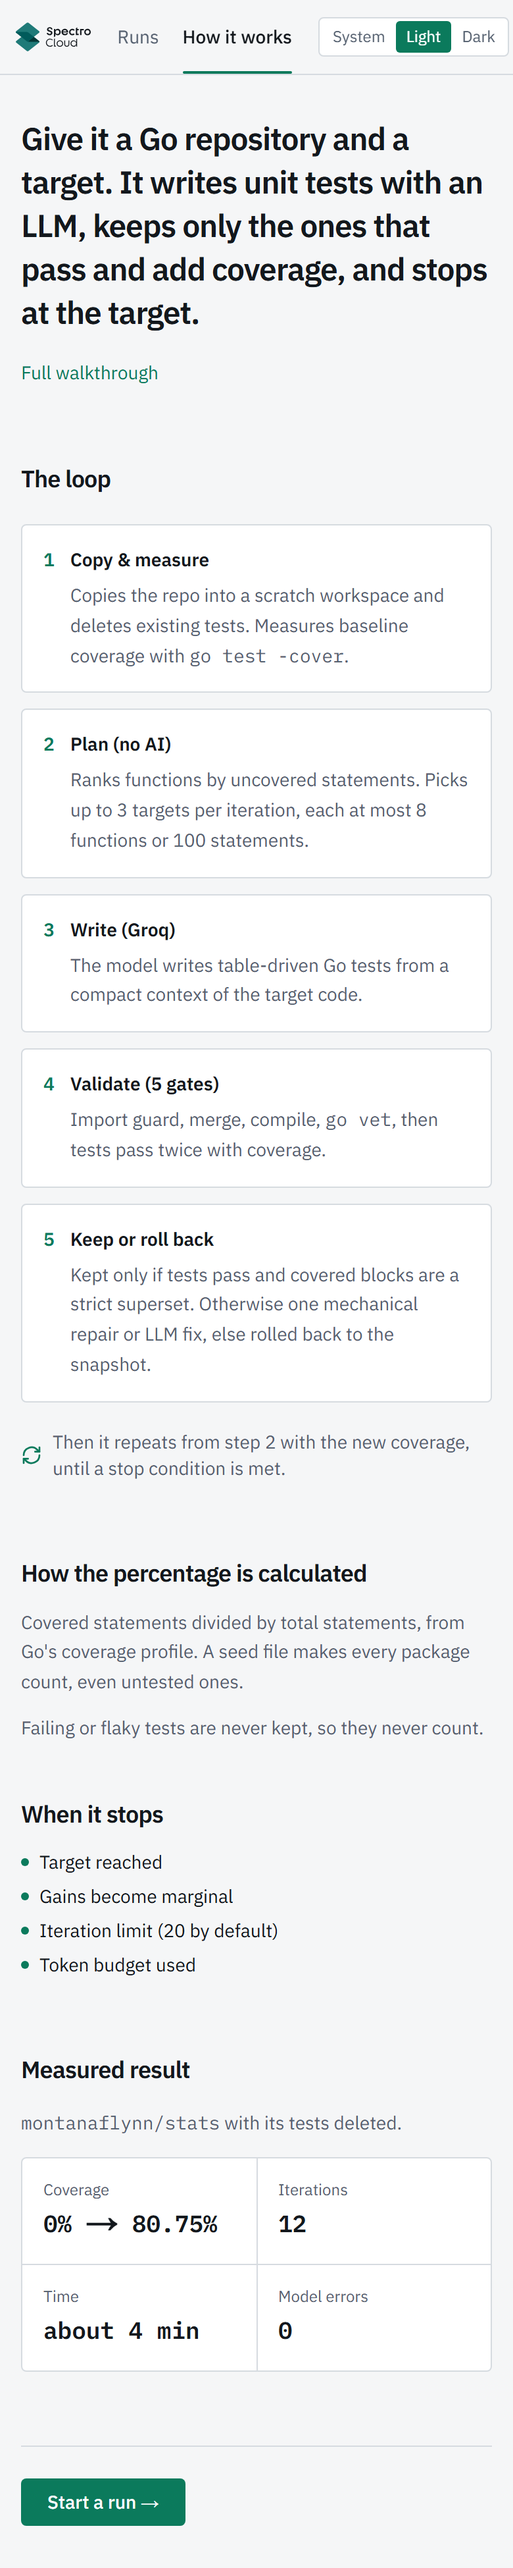
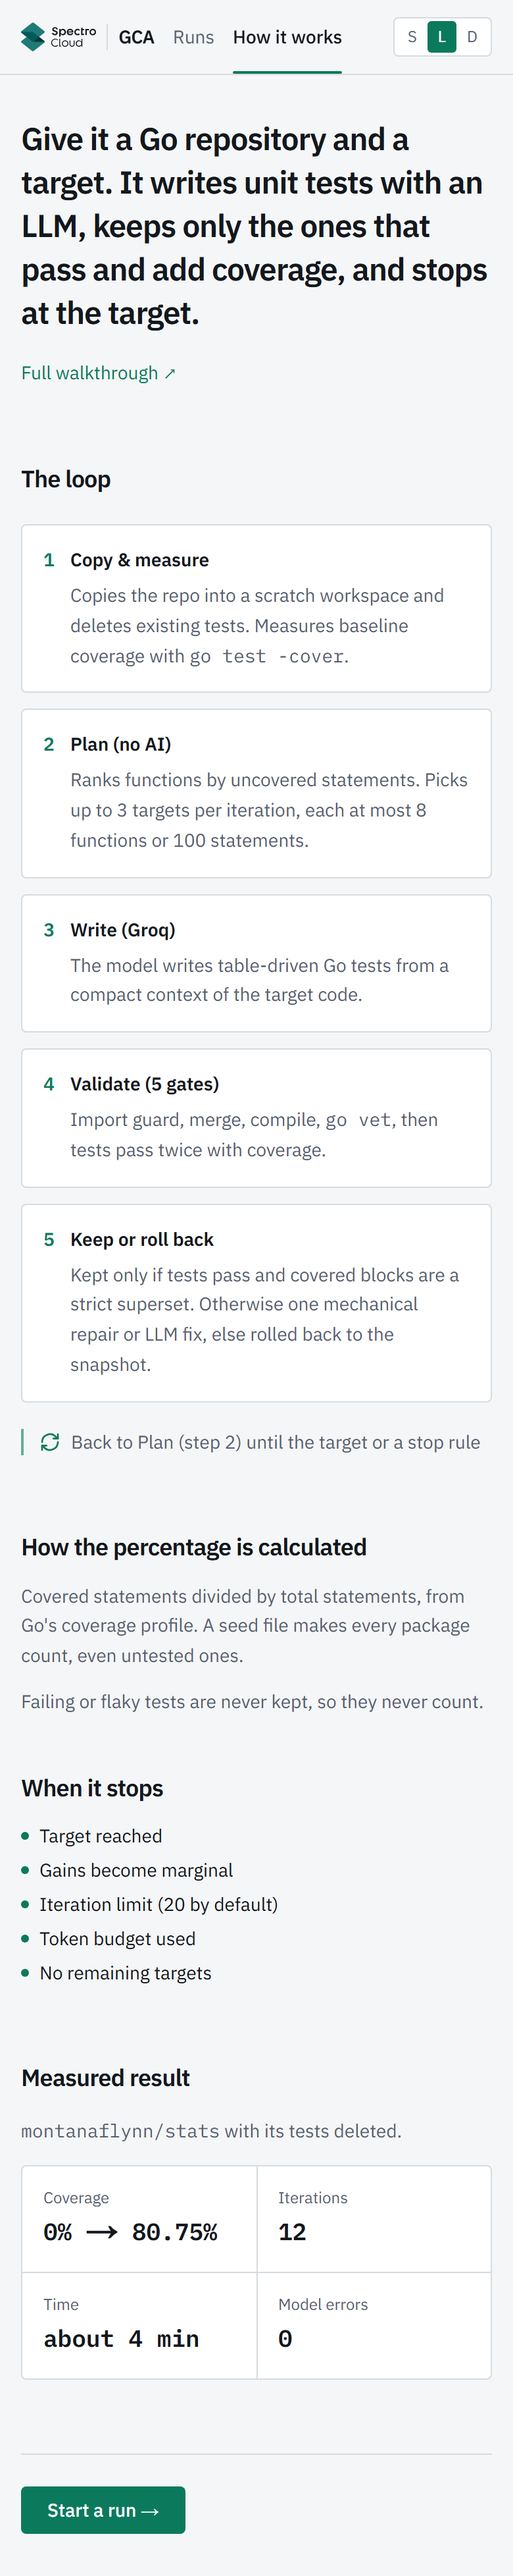
fix(frontend): repeat connector, aligned how-it-works, mobile navbar gutter

diff --git a/frontend/src/app/how-it-works/page.tsx b/frontend/src/app/how-it-works/page.tsx
@@ -14,7 +14,7 @@ const STEPS = [
   { title: "Keep or roll back", body: <>Kept only if tests pass and covered blocks are a strict superset. Otherwise one mechanical repair or LLM fix, else rolled back to the snapshot.</> },
 ];
 
-const STOPS = ["Target reached", "Gains become marginal", "Iteration limit (20 by default)", "Token budget used"];
+const STOPS = ["Target reached", "Gains become marginal", "Iteration limit (20 by default)", "Token budget used", "No remaining targets"];
 
 const RESULT = [
   { label: "Coverage", value: "0% → 80.75%" },
@@ -27,12 +27,12 @@ const h2 = "text-lg font-semibold tracking-tight";
 
 export default function HowItWorksPage() {
   return (
-    <div className="mx-auto max-w-5xl space-y-14">
+    <div className="space-y-14">
       <section className="space-y-4">
         <h1 className="max-w-3xl text-2xl font-semibold leading-snug tracking-tight sm:text-3xl">
           Give it a Go repository and a target. It writes unit tests with an LLM, keeps only the ones that pass and add coverage, and stops at the target.
         </h1>
-        <a href={WALKTHROUGH} target="_blank" rel="noopener noreferrer" className="inline-block text-sm text-accent underline-offset-4 hover:underline">Full walkthrough</a>
+        <a href={WALKTHROUGH} target="_blank" rel="noopener noreferrer" className="inline-block text-sm text-accent underline-offset-4 hover:underline">Full walkthrough <span aria-hidden>↗</span></a>
       </section>
 
       <section aria-labelledby="loop-heading" className="space-y-5">
@@ -48,11 +48,21 @@ export default function HowItWorksPage() {
             </li>
           ))}
         </ol>
-        <p className="flex items-center gap-2 text-sm text-muted">
-          <svg aria-hidden viewBox="0 0 24 24" className="h-4 w-4 shrink-0 text-accent" fill="none" stroke="currentColor" strokeWidth="2" strokeLinecap="round" strokeLinejoin="round">
+        <p className="sr-only">Then it repeats from step 2 with the new coverage, until the target or a stop rule is reached.</p>
+        <div aria-hidden data-testid="repeat-connector" className="hidden lg:block">
+          <div className="relative h-10">
+            <div className="absolute inset-y-0 rounded-b-md border-x-2 border-b-2 border-accent/60"
+                 style={{ left: "calc((100% - 48px) / 5 * 1.5 + 12px)", right: "calc((100% - 48px) / 10)" }}>
+              <svg viewBox="0 0 12 8" className="absolute -left-[7px] -top-1 h-2 w-3 text-accent" fill="currentColor"><path d="M6 0 12 8H0z" /></svg>
+              <span className="absolute -bottom-2.5 left-1/2 -translate-x-1/2 whitespace-nowrap bg-bg px-3 text-xs text-muted">repeat until the target or a stop rule</span>
+            </div>
+          </div>
+        </div>
+        <p aria-hidden data-testid="repeat-connector-narrow" className="flex items-center gap-2 border-l-2 border-accent/60 pl-3 text-sm text-muted lg:hidden">
+          <svg viewBox="0 0 24 24" className="h-4 w-4 shrink-0 text-accent" fill="none" stroke="currentColor" strokeWidth="2" strokeLinecap="round" strokeLinejoin="round">
             <path d="M3 12a9 9 0 0 1 15.5-6.2L21 8" /><path d="M21 3v5h-5" /><path d="M21 12a9 9 0 0 1-15.5 6.2L3 16" /><path d="M3 21v-5h5" />
           </svg>
-          Then it repeats from step 2 with the new coverage, until a stop condition is met.
+          Back to Plan (step 2) until the target or a stop rule
         </p>
       </section>
 

diff --git a/frontend/src/components/NavBar.tsx b/frontend/src/components/NavBar.tsx
@@ -24,18 +24,21 @@ export function NavBar() {
 
   return (
     <header className="sticky top-0 z-20 border-b border-border bg-bg/85 backdrop-blur">
-      <div className="mx-auto flex h-14 max-w-6xl items-center gap-3 px-3 sm:gap-4 sm:px-4">
+      <div className="mx-auto flex h-14 max-w-6xl items-center gap-2 px-4 sm:gap-4">
         <SpectroCloudLogo className="h-[22px] w-auto shrink-0 sm:h-[26px]" />
-        <span aria-hidden className="hidden h-5 w-px bg-border sm:block" />
-        <Link href="/" className="hidden whitespace-nowrap text-sm font-semibold tracking-tight sm:block">Go Coverage Agent</Link>
-        <nav aria-label="Main" className="flex h-full items-stretch gap-0.5 sm:ml-2 sm:gap-1">
+        <span aria-hidden className="h-5 w-px shrink-0 bg-border" />
+        <Link href="/" aria-label="Go Coverage Agent" className="whitespace-nowrap text-sm font-semibold tracking-tight">
+          <span className="sm:hidden">GCA</span>
+          <span className="hidden sm:inline">Go Coverage Agent</span>
+        </Link>
+        <nav aria-label="Main" className="flex h-full min-w-0 items-stretch gap-0.5 sm:ml-2 sm:gap-1">
           {LINKS.map((l) => {
             const active = l.active(pathname);
             return (
               <Link key={l.href} href={l.href} aria-current={active ? "page" : undefined}
-                    className={`relative flex items-center whitespace-nowrap px-2 text-sm transition-colors sm:px-3 ${active ? "font-medium text-text" : "text-muted hover:text-text"}`}>
+                    className={`relative flex items-center whitespace-nowrap px-1.5 text-sm transition-colors sm:px-3 ${active ? "font-medium text-text" : "text-muted hover:text-text"}`}>
                 {l.label}
-                {active && <span aria-hidden className="absolute inset-x-2 bottom-0 h-0.5 rounded-full bg-accent sm:inset-x-3" />}
+                {active && <span aria-hidden className="absolute inset-x-1.5 bottom-0 h-0.5 rounded-full bg-accent sm:inset-x-3" />}
               </Link>
             );
           })}

diff --git a/frontend/src/components/RunsPanel.test.tsx b/frontend/src/components/RunsPanel.test.tsx
@@ -118,16 +118,26 @@ describe("RunsPanel", () => {
     expect(api.jobs).toHaveBeenCalledTimes(3);
   });
 
-  it("runs the 1 s ticker only while a job is running", async () => {
-    vi.mocked(api.jobs).mockResolvedValue([job({ id: "d1", status: "completed", summary })]);
+  it("stops the 1 s ticker once nothing is running", async () => {
+    vi.mocked(api.jobs).mockResolvedValue([job({ id: "r1", status: "running", percent: 5 })]);
     render(<RunsPanel />);
+    await screen.findByText("Running");
+    expect(vi.getTimerCount()).toBe(2); // 3 s poll + 1 s ticker
+    vi.mocked(api.jobs).mockResolvedValue([job({ id: "r1", status: "completed", summary })]);
+    await act(async () => { await vi.advanceTimersByTimeAsync(3000); });
     await screen.findByText("Completed");
     expect(vi.getTimerCount()).toBe(0);
-    vi.mocked(api.jobs).mockResolvedValue([job({ id: "r1", status: "running", percent: 5 })]);
-    const { unmount } = render(<RunsPanel />);
-    await screen.findByText("Running");
-    expect(vi.getTimerCount()).toBeGreaterThanOrEqual(2);
+  });
+
+  it("drops a response that arrives after unmount", async () => {
+    let release!: (j: JobSnapshot[]) => void;
+    vi.mocked(api.jobs).mockImplementation(() => new Promise((r) => { release = r; }));
+    const onJobs = vi.fn();
+    const { unmount } = render(<RunsPanel onJobs={onJobs} />);
     unmount();
+    await act(async () => { release([job({ id: "r1", status: "running" })]); await vi.advanceTimersByTimeAsync(0); });
+    expect(onJobs).not.toHaveBeenCalled();
+    expect(vi.getTimerCount()).toBe(0);
   });
 
   it("shows an inline error when loading fails", async () => {

diff --git a/frontend/src/app/how-it-works/page.test.tsx b/frontend/src/app/how-it-works/page.test.tsx
@@ -11,9 +11,16 @@ describe("HowItWorksPage", () => {
     expect(items).toEqual(["Copy & measure", "Plan (no AI)", "Write (Groq)", "Validate (5 gates)", "Keep or roll back"]);
   });
 
+  it("shows the repeat connector from step 5 back to step 2", () => {
+    render(<HowItWorksPage />);
+    expect(screen.getByTestId("repeat-connector")).toHaveTextContent("repeat until the target or a stop rule");
+    expect(screen.getByTestId("repeat-connector-narrow")).toHaveTextContent("Back to Plan (step 2)");
+    expect(screen.getByText(/repeats from step 2/)).toBeInTheDocument();
+  });
+
   it("shows stop conditions, the measured result and the links", () => {
     render(<HowItWorksPage />);
-    for (const t of ["Target reached", "Gains become marginal", "Iteration limit (20 by default)", "Token budget used"]) {
+    for (const t of ["Target reached", "Gains become marginal", "Iteration limit (20 by default)", "Token budget used", "No remaining targets"]) {
       expect(screen.getByText(t)).toBeInTheDocument();
     }
     expect(screen.getByText("0% → 80.75%")).toBeInTheDocument();

diff --git a/frontend/src/components/ThemeToggle.tsx b/frontend/src/components/ThemeToggle.tsx
@@ -47,9 +47,12 @@ export function ThemeToggle() {
   return (
     <div role="group" aria-label="Theme" className="inline-flex rounded-sm border border-border bg-surface p-0.5 text-xs">
       {OPTIONS.map((o) => (
-        <button key={o.value} type="button" aria-pressed={theme === o.value} onClick={() => choose(o.value)}
+        <button key={o.value} type="button" aria-label={o.label} aria-pressed={theme === o.value} onClick={() => choose(o.value)}
                 className="rounded-[3px] px-2 py-1 text-muted hover:text-text aria-pressed:bg-accent aria-pressed:text-on-accent">
-          {o.label}
+          <span aria-hidden>
+            <span className="sm:hidden">{o.label[0]}</span>
+            <span className="hidden sm:inline">{o.label}</span>
+          </span>
         </button>
       ))}
     </div>
